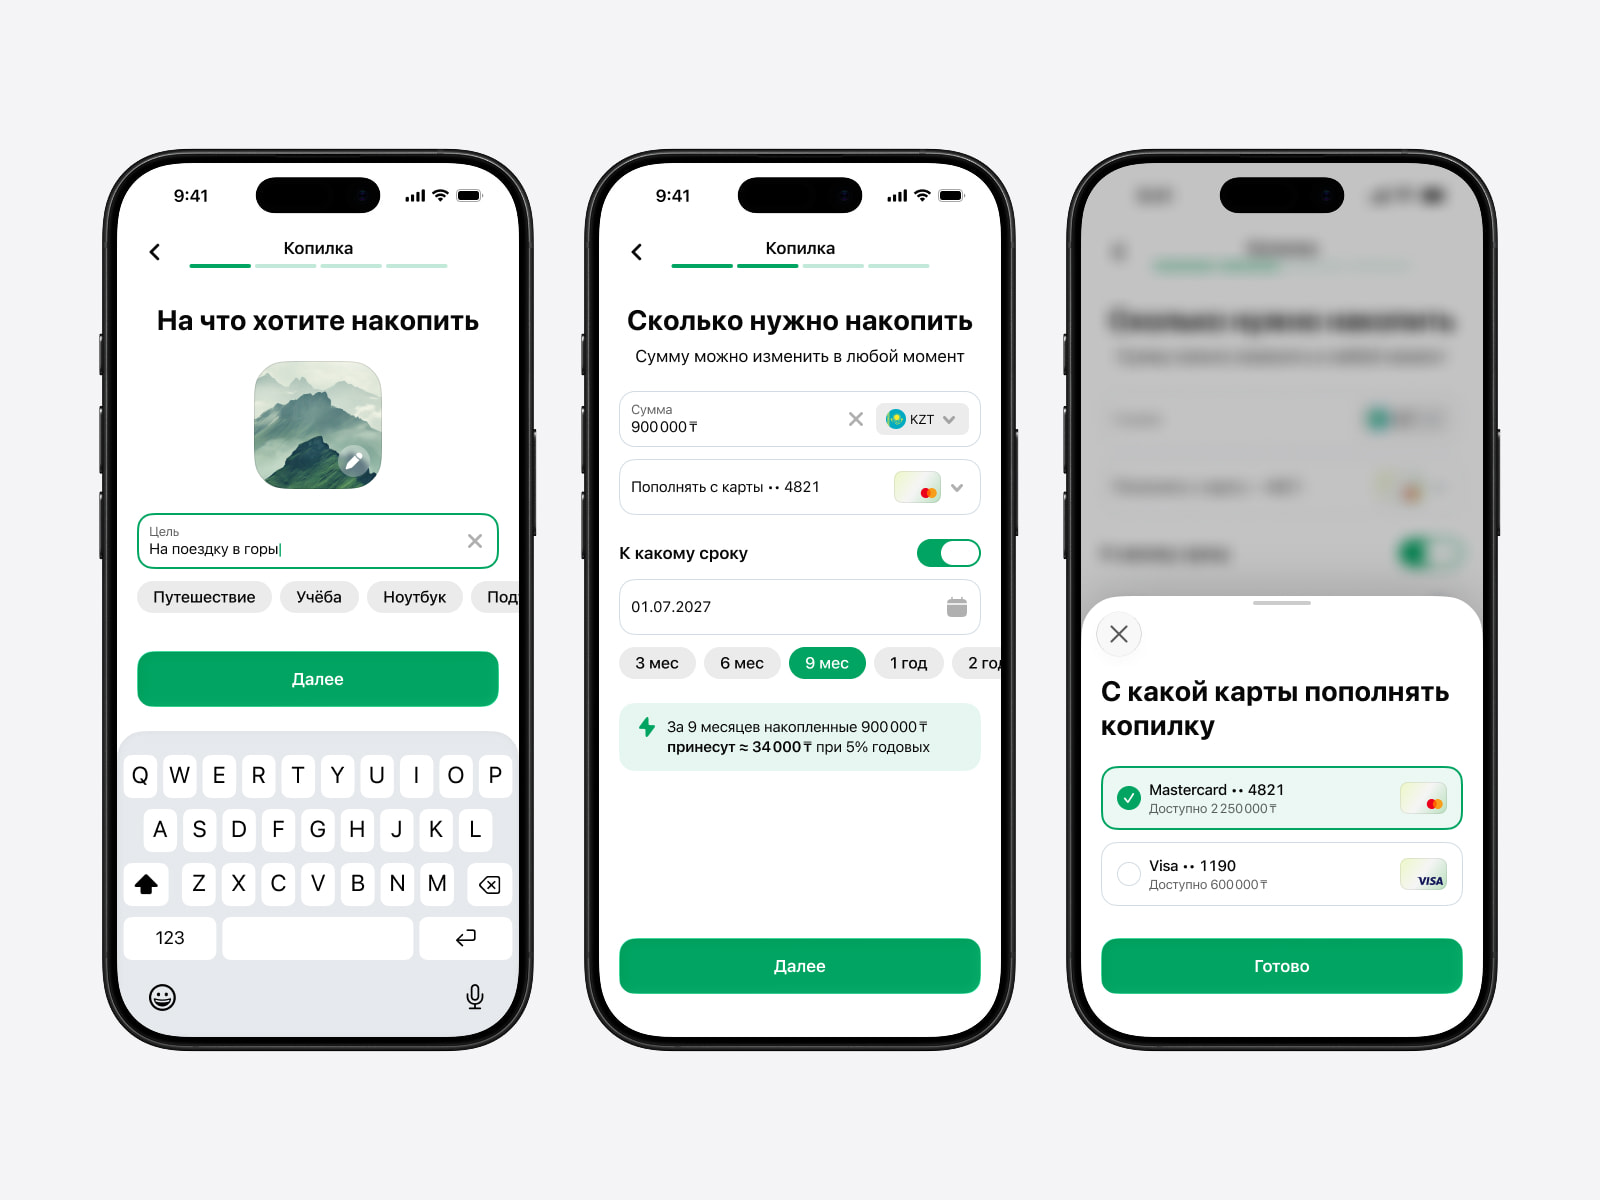
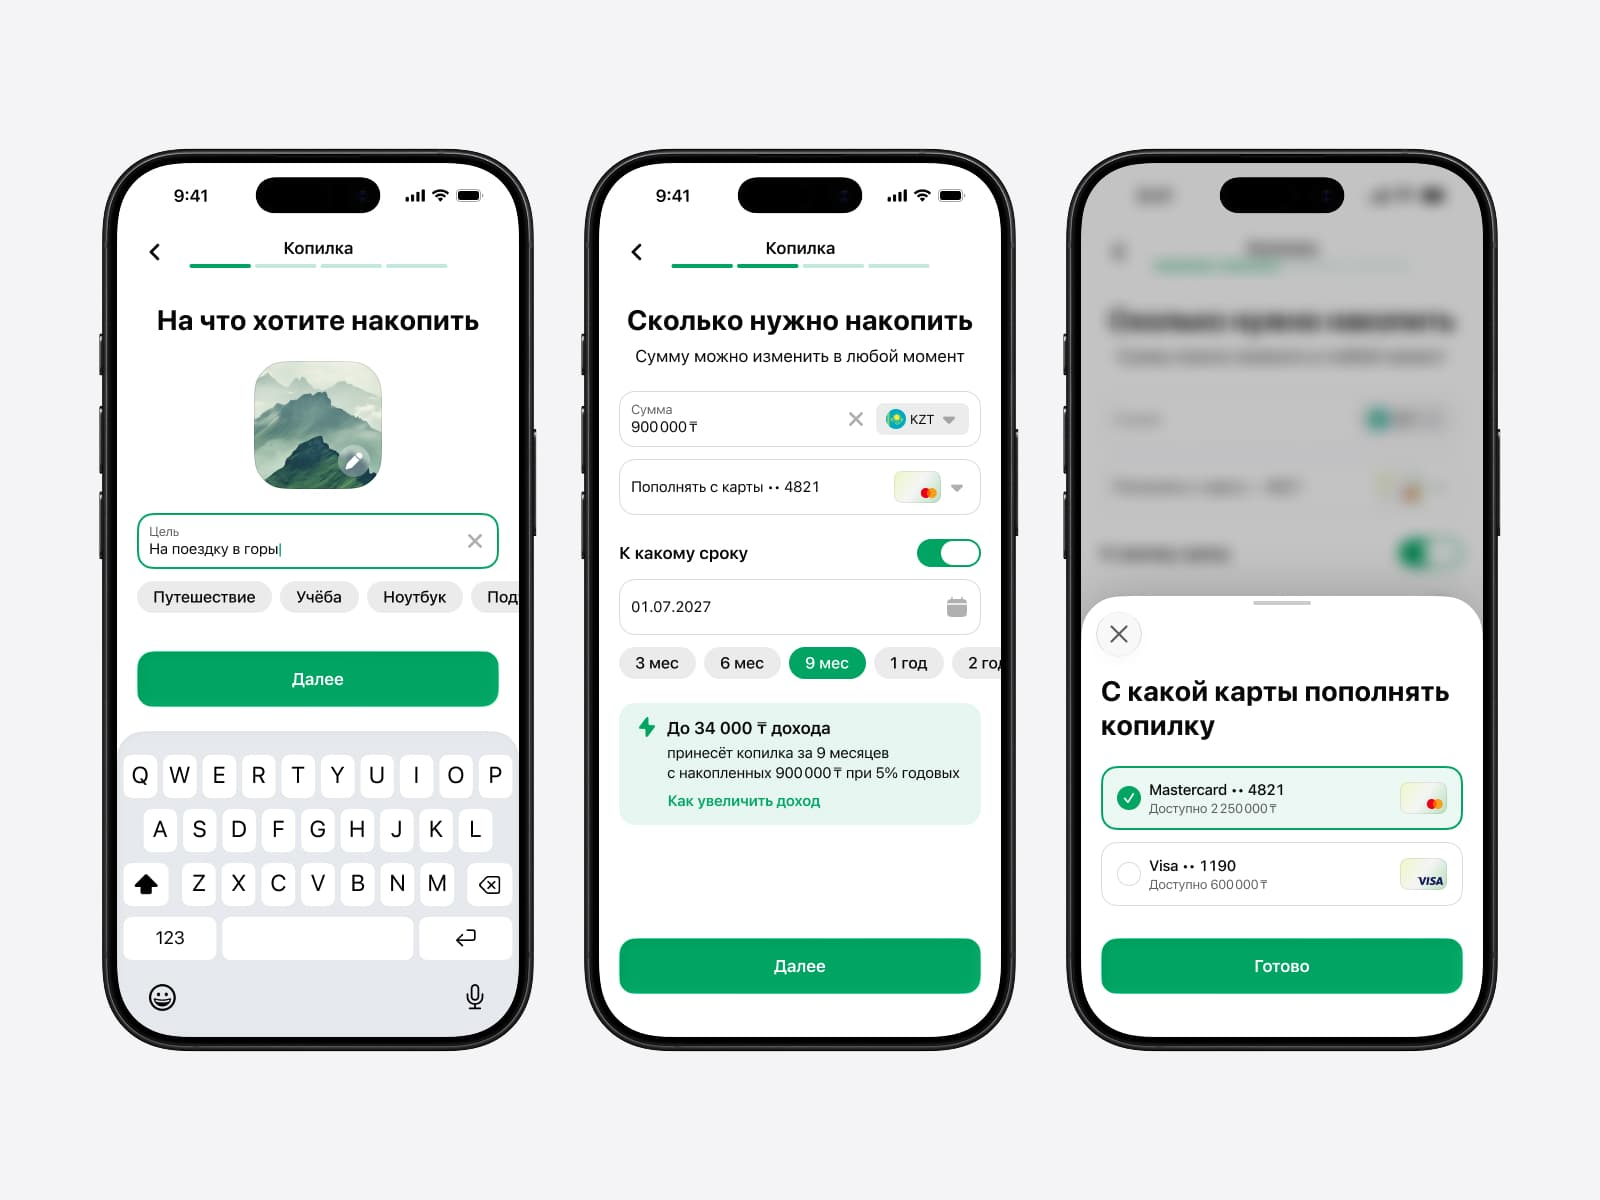
описание

diff --git a/app/cases/bankingmoneypot/page.tsx b/app/cases/bankingmoneypot/page.tsx
@@ -16,7 +16,7 @@ export default function BankingMoneyPotPage() {
         <section className="project-intro fade-in">
           <h1>Копилка в мобильном банке</h1>
           <h3 className="subtitle">
-            Нашёл точку роста в розничных продуктах крупного банка Казахстана и предложил решение для накопительных счетов
+            Discovery-спринт в одну неделю: нашёл точку роста в розничных продуктах крупного банка и предложил решение для накопительных счетов
           </h3>
           <ProjectImage
             src="/images/projects/Moneypot_shot_1.jpg"
@@ -28,20 +28,23 @@ export default function BankingMoneyPotPage() {
           <h2>Дизайн Копилки в мобильном банке</h2>
           <h3>Контекст</h3>
           <p>
-            Кейс сделал по собственной инициативе: хотелось поработать над реальной fintech-задачей. Основой стал мой аудит приложения одного из крупных банков Казахстана и диалог с дизайнером из индустрии. Так как кейс некоммерческий, доступа к внутренней аналитике не было, поэтому все выводы я формулировал как гипотезы и отдельно отметил, как бы проверял их на реальных данных.
+            Кейс сделал по собственной инициативе: чтобы попрактиковать мобильный UI на реальной fintech-задаче и пройти путь от поиска точки роста до проверенного прототипа. Основа: мой аудит приложения крупного банка Казахстана и разговор с лид-дизайнером из индустрии. Доступа к внутренней аналитике и клиентам банка у меня не было, поэтому выводы о потребностях пользователей я формулировал как гипотезы.
           </p>
           <p>
-            <strong>Задача и цели:</strong> Найти точку роста в розничных продуктах, попрактиковать не только мобильный UI, но и предложить решение с гипотезой и проверить его на прототипе, подойдя к кейсу как к реальной задаче, потратив не более 1 рабочей недели.
+            <strong>Моя роль:</strong> сделал аудит, анализ конкурентов, гипотезы, флоу и Lo-Fi прототип, тесты, финальный UI.
+          </p>
+          <p>
+            <strong>Задача и цели:</strong> Найти точку роста в розничных продуктах банка, предложить решение, сформулировать гипотезы и проверить базовый сценарий на кликабельном прототипе, в срок не больше одной рабочей недели.
           </p>
 
           <h3>Проблема и понимание задачи</h3>
           <p>
-            В текущем приложении нет инструмента для накопления на конкретную цель. Чтобы откладывать деньги, пользователю нужно открыть накопительный счёт, самому считать сумму, срок и не забывать о пополнении.
+            В текущем приложении нет инструмента для накопления на конкретную цель. Чтобы откладывать деньги, пользователь должен открыть накопительный счёт, сам посчитать сумму и срок и не забывать о пополнении.
           </p>
 
           <h3>Аудит точек роста</h3>
           <p>
-            Провёл мини-аудит розничных продуктов в приложении и выделил 5 точек роста. Для каждой описал проблему, решение, ценность для пользователя, гипотезу, способ проверки и бенефит для бизнеса.
+            Провёл мини-аудит розничных продуктов и выделил 5 идей. Для каждой описал проблему, решение, ценность для пользователя, гипотезу, способ проверки и выгоду для бизнеса:
           </p>
           <ul className="list-disc pl-5">
             <li>
@@ -61,7 +64,10 @@ export default function BankingMoneyPotPage() {
             </li>
           </ul>
           <p>
-            Выбрал копилку, так как она закрывает базовую потребность «Копить на цель» и главное, затрагивает остальные идеи: групповые накопления, автопополнение, аналитику.
+            <strong>Как выбирал:</strong> Оценил каждую идею по трём критериям: ценность для пользователя, ценность для банка, трудозатраты.
+          </p>
+          <p>
+            Копилку выбрал, потому что она закрывает базовую потребность «копить на цель» и при этом даёт основу для остальных идей: групповых накоплений, автопополнения и аналитики. Лид-дизайнер подтвердил потребность.
           </p>
           <ProjectImage
             src="/images/projects/Moneypot_shot_audit.jpg"
@@ -87,7 +93,7 @@ export default function BankingMoneyPotPage() {
 
           <h3>Анализ конкурентов</h3>
           <p>
-            Изучил сценарии накоплений у Kaspi, Alatau City Bank, Сбера, Revolut и других. Выявил инсайты для MVP:
+            Изучил сценарии накопления у Kaspi, Alatau City Bank, Сбера, Revolut, Plata & Yandex Pay и Т-Банка. Сравнивал точку входа, шаги создания, автоматические правила и совместные накопления. Выявил инсайты для MVP:
           </p>
           <ul className="list-disc pl-5">
             <li>
@@ -121,7 +127,7 @@ export default function BankingMoneyPotPage() {
 
           <h3>Тестирование</h3>
           <p>
-            На основе собранного ранее User Flow и Lo-Fi макетов, собрал кликабельный прототип. Провел тесты основных сценариев на 3 респондентах в формате видеозвонка. Задача: создать копилку на цель от названия до первого пополнения. Смотрел на реакцию, выполнение задачи и впечатления.
+            На основе собранного ранее User Flow и Lo-Fi макетов, собрал кликабельный прототип. Провел модерируемый тест основных сценариев на 3 респондентах в формате видеозвонка. Задача: создать копилку на цель от названия до первого пополнения. Фиксировал выполнение самостоятельно, с подсказкой или не выполнение, где остановились или сомневались, что сказали вслух.
           </p>
           <p>
             По итогам внёс небольшие корректировки в макеты. Выборка небольшая, поэтому считаю результат проверкой базовой логики.
@@ -155,13 +161,26 @@ export default function BankingMoneyPotPage() {
           <h3>Результаты</h3>
           <ul className="list-disc pl-5">
             <li>
-              Нашёл точки роста и предложил решение с проверяемой гипотезой
+              Выбрал точку роста по явным критериям и описал, что в обоснованиях факт, а что гипотеза
             </li>
             <li>
-              Спроектировал сценарий создания копилки и построил User Flow
+              Спроектировал сценарий создания копилки из 4 шагов, построил User Flow и Lo-Fi
             </li>
             <li>
               Проверил Lo-Fi прототип на 3 респондентах и подготовил финальные макеты мобильного UI
+            </li>
+          </ul>
+
+          <h3>Что бы измерял с доступом к данным</h3>
+          <ul className="list-disc pl-5">
+            <li>
+              <strong>Воронку создания:</strong> открытие сценария → создание копилки → первое пополнение. Смотрим, где пользователи отваливаются по шагам.
+            </li>
+            <li>
+              <strong>Остаток в копилке через 30 и 90 дней</strong> и долю копилок, из которых деньги сняли досрочно. Смотрим, удерживает ли копилка деньги
+            </li>
+            <li>
+              <strong>Долю приглашённых,</strong> которые пополнили копилку, и новые клиенты через приглашения
             </li>
           </ul>
         </section>
